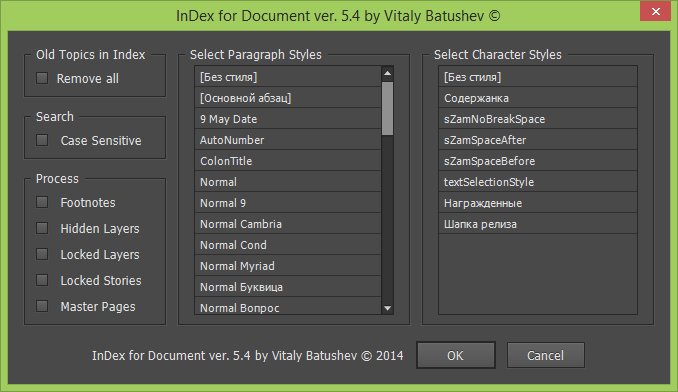
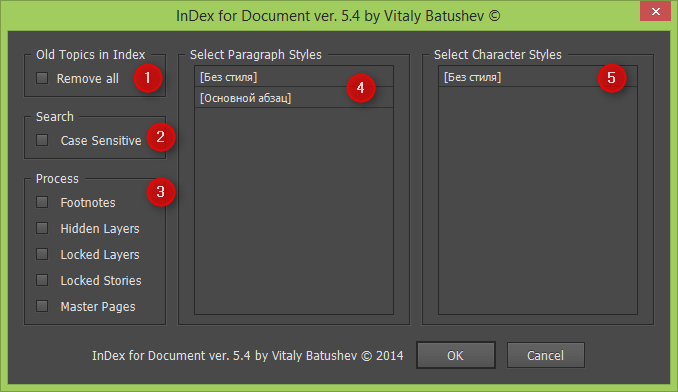
Исправление скрипта и обновление README
Исправлена обработка
Добавлена поддержка комментирования ненужных строк
Обновлен README

diff --git a/InDexBook.jsx b/InDexBook.jsx
@@ -1,4 +1,4 @@
-#include "InDexFind.jsxinc"
+#include "InDexFind.jsxinc"
 
 if (app.documents.length == 0 && app.books.length > 0) {
 	var bookstyledoc = app.open(app.activeBook.bookContents[0].fullName);
@@ -153,11 +153,13 @@ if (result == 1) {
 		}
 		workfile.open('r');
 		do {
-			var el = workfile.readln().split('->');
-			if (el.length > 0) { 
-				wObject.indexFind(el, workIndex, findStyles, findCharStyles, caseSens);
+			var cstr = workfile.readln();
+			if (cstr.substr(0,2) != '##') {
+				var el = cstr.split('->');
+				if (el.length > 0) { 
+					wObject.indexFind(el, workIndex, findStyles, findCharStyles, caseSens);
+				}
 			}
-
 		} while(workfile.eof == false);
 		workfile.close();
 		if (files) {

diff --git a/InDexDoc.jsx b/InDexDoc.jsx
@@ -1,4 +1,4 @@
-#include "InDexFind.jsxinc"
+#include "InDexFind.jsxinc"
 
 if (app.documents.length == 0) {
 	alert(docAlertText, docAlertHead, true);  exit();
@@ -104,9 +104,12 @@ if (result == 1) {
 		var wObject = wObjects[w];
 		workfile.open('r');
 		do {
-			var el = workfile.readln().split('->');
-			if (el.length > 0) { 
-				wObject.indexFind(el, workIndex, findStyles, findCharStyles, caseSens);
+			var cstr = workfile.readln();
+			if (cstr.substr(0,2) != '##') {
+				var el = cstr.split('->');
+				if (el.length > 0) { 
+					wObject.indexFind(el, workIndex, findStyles, findCharStyles, caseSens);
+				}				
 			}
 		} while(workfile.eof == false);
 		workfile.close();

diff --git a/README.md b/README.md
@@ -14,9 +14,13 @@ InDex5
 
 Скрипт **не составляет** предметный указатель, а расставляет метки pageReference в тексте, прописывая в объект Index публикации необходимые темы (topics).
 
-После работы скрипта вы можете собрать предметный указатель штатным средство Adobe InDesign **Указатель (Index)**.
+После работы скрипта вы можете собрать предметный указатель штатным средством Adobe InDesign **Указатель (Index)** (Окно > Текст и таблицы > Указатель, Shift + F8).
 
 ![Панель Указатель](https://raw.githubusercontent.com/vbatushev/InDex5/master/images/index_panel.png)
+
+###Установка
+
+Поместите файлы InDexDoc.jsx, InDexBook.jsx и InDexFind.jsxinc в папку InDesign для скриптов и запустите необходимый скрипт в зависимости от типа обрабатываемого объекта (публикации или книги).
 
 ###Использование
 
@@ -43,4 +47,24 @@ InDex5
 Например, приведенная строка позволяет найти все формы слова "термин" — термин, термина, термином, термину, терминами и т.д.:
 > Термин=>термин[а-я]{0,3}
 
+В качестве символа комментария используется двойной символ **#**.
+
+Например, нижеследующая строка обрабатываться не будет:
+> ##Термин=>термин[а-я]{0,3}
+
 ![Диалоговое окно скрипт InDexDoc.jsx](https://raw.githubusercontent.com/vbatushev/InDex5/master/images/index_dialog.png)
+
+В диалоговом окне вы можете указать, что:
+
+1. необходимо удалить все предыдущие созданные темы в индексе публикации или книги (Remove all old topics in index)
+2. искать с учетом регистра  (Case Sensitive)
+3. обрабатывать:
+	- сноски (Footnotes),
+	- скрытые слои (Hidden Layers),
+	- заблокированные слои (Locked Layers),
+	- заблокированные тексты (Locked Stories),
+	- шаблоны (Master Pages).
+4. обрабатывать только абзацы с выбранными стилями абзаца
+5. обрабатывать текст только с выбранными стилями символов
+
+
